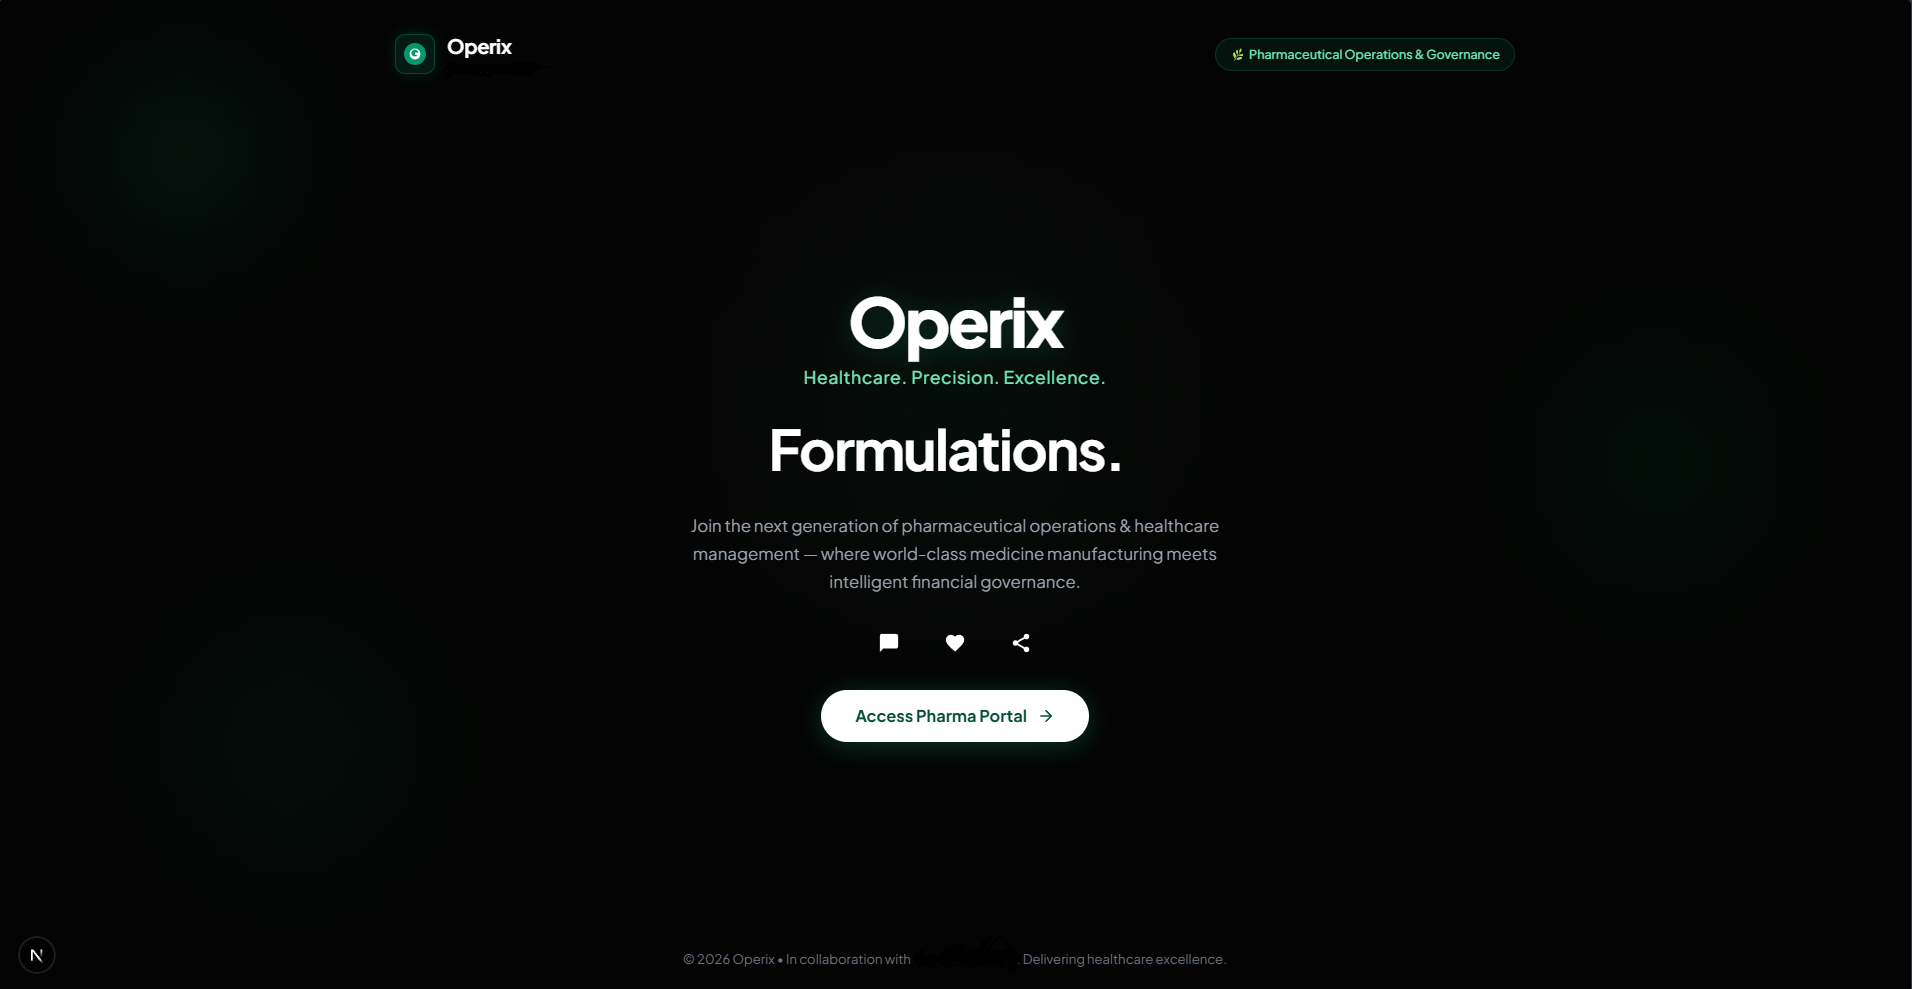
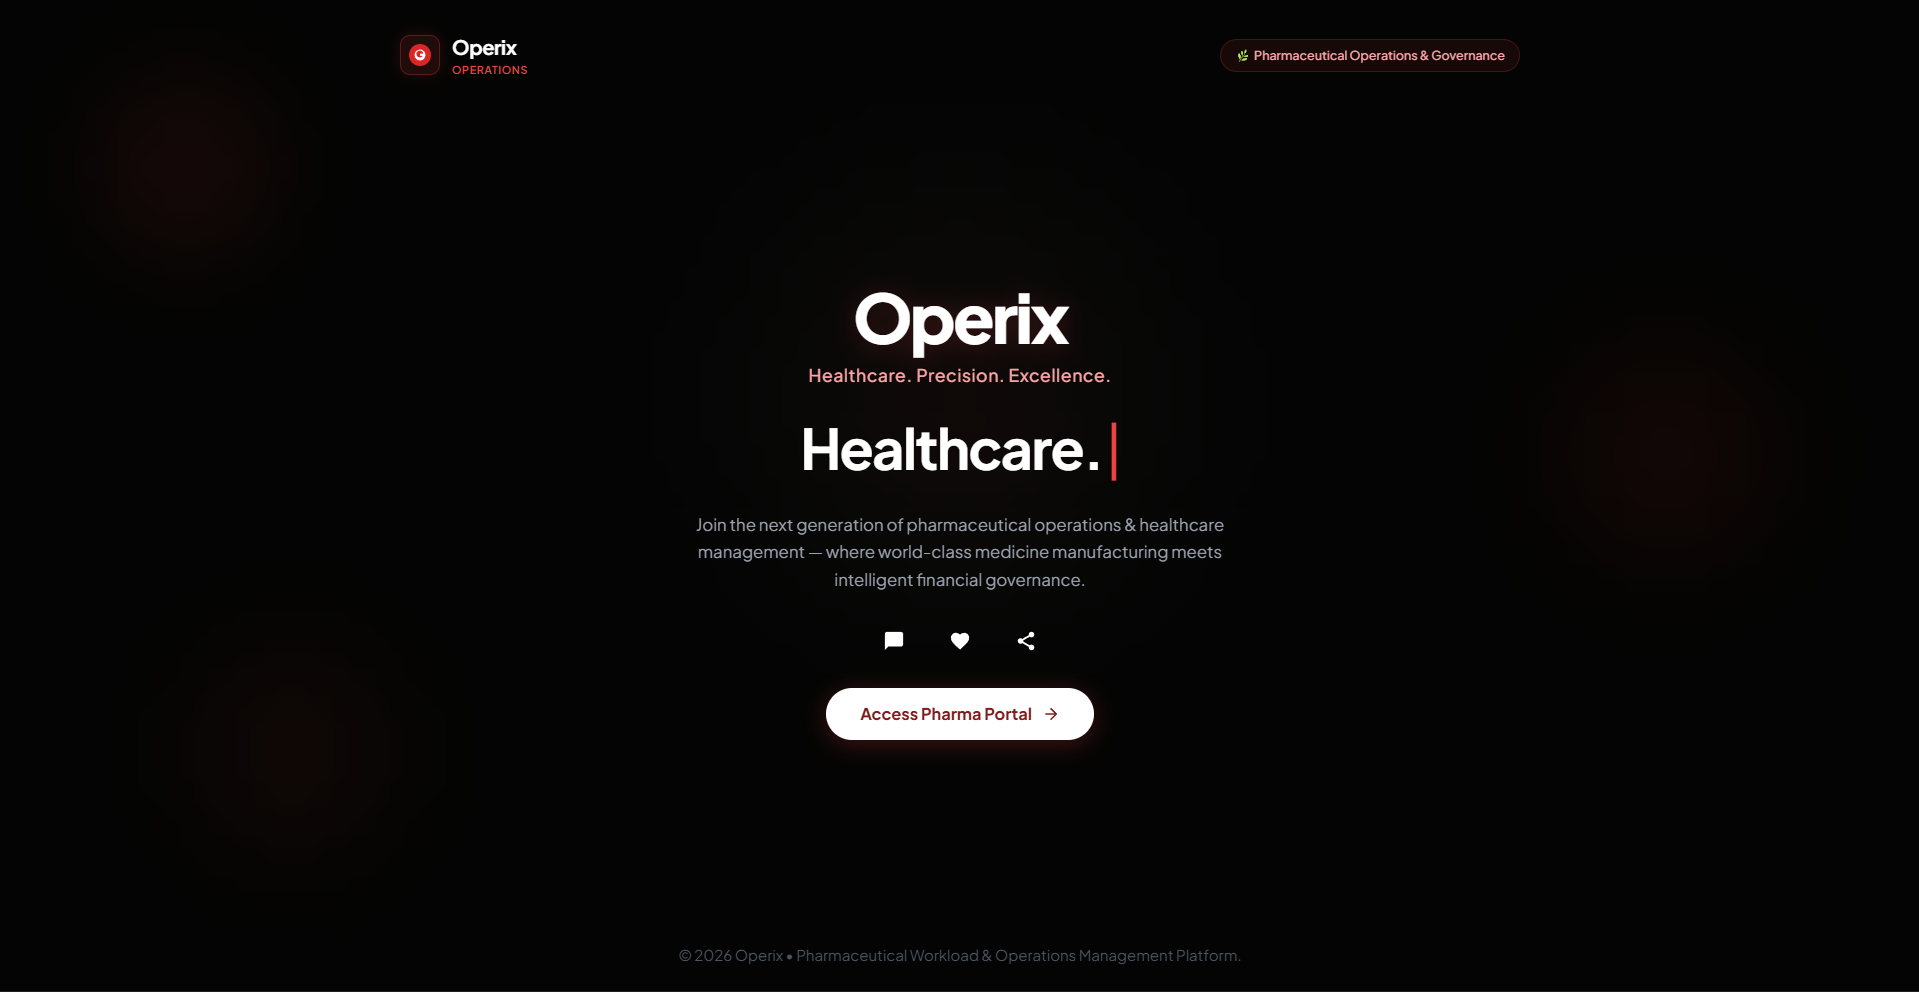
feat(projects, contact): update Operix deployment status and update primary contact email
- `src/content/projects.ts`: Update Operix project status from `in-progress` to `live` and add deployment URL (`https://operix-frontend-avi.vercel.app/`).
- `public/project/operix.png`: Update preview screenshot/asset for Operix.
- `src/components/Contact.tsx`: Update `PUBLIC_EMAIL` constant to `arnabdey15091@gmail.com`.

diff --git a/src/components/Contact.tsx b/src/components/Contact.tsx
@@ -31,7 +31,7 @@ type ContactField = 'firstName' | 'lastName' | 'email' | 'inquiryType' | 'messag
 type ContactErrors = Partial<Record<ContactField, string>>;
 
 const FORM_NAME = 'portfolio-contact';
-const PUBLIC_EMAIL = 'achyutaarnabdey@gmail.com';
+const PUBLIC_EMAIL = 'arnabdey15091@gmail.com';
 const DEFAULT_INQUIRY: InquiryType = 'General Inquiry';
 const MESSAGE_LIMIT = 2000;
 

diff --git a/src/content/projects.ts b/src/content/projects.ts
@@ -155,7 +155,8 @@ export const projects = [
       'Prisma',
     ],
     date: '2026-08',
-    status: 'in-progress',
+    status: 'live',
+    liveUrl: 'https://operix-frontend-avi.vercel.app/',
     repositoryUrls: [
       { label: 'Frontend', url: 'https://github.com/ArnabSaga/Operix-Frontend' },
       { label: 'Backend', url: 'https://github.com/ArnabSaga/Operix-Backend' },
